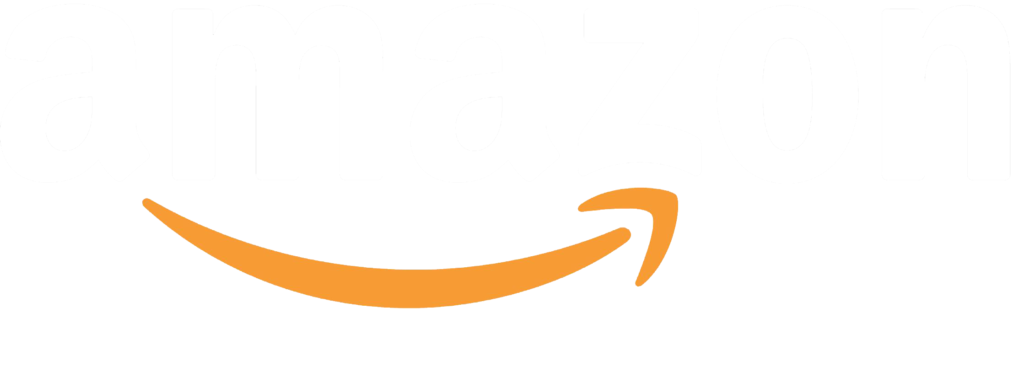
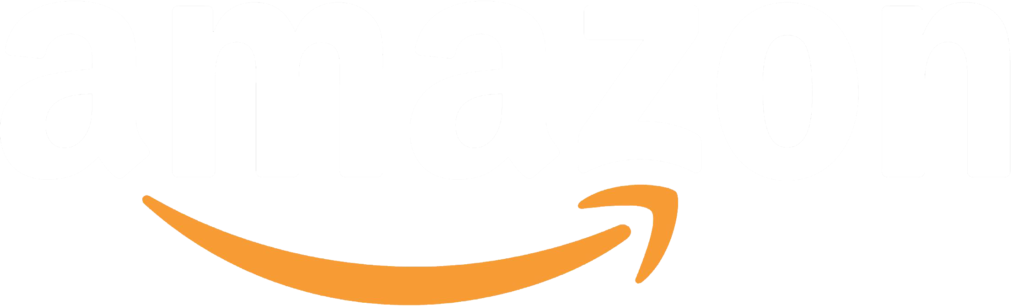
responsive header

Changed region(s): [[0.1227, 0.5, 0.6746, 1.0]]

diff --git a/src/Header.css b/src/Header.css
@@ -1,76 +1,120 @@
-.header {
-    height: 60px;
-    display: flex;
-    align-items: center;
-    background-color: #131921;
-    position: sticky;
-    top: 0;
-    z-index: 100;
-}
 
-.header__logo {
-    width: 100px;
-    object-fit: contain;
-    margin: 0 20px;
-    margin-top: 18px;
-}
 
-.header__search {
-    display: flex;
-    flex: 1;
-    align-items: center;
-    border-radius: 24px;
+@media (max-width:600px) {
+    body {
+        background: grey;
+    }
 
-}
+    .header {
+        display: grid;
+        justify-content:center;
+        
+        grid-template:
+            "logo nav basket" 40px
+            "search search search"40px/min-content 1fr min-content;
 
-.header__searchInput {
-    height: 12px;
-    padding: 10px;
-    border: none;
-    width: 100%;
-}
+        background-color: #131921;
+        position: fixed;
+        top: 0;
+        right: 0;
+        left: 0;
+        align-items: center;
+        padding: 3px 5px 5px 5px;
+        
+        
+    }
 
-.header__searchIcon {
-    padding: 5px;
-    height: 22px !important;
-    background-color: #cd9042;
-}
 
-.header__optionLineOne {
-    font-size: 10px;
-}
+    .header__nav {
+        
+        grid: nav;
+        display: flex;
+        justify-content: space-evenly;
+        
+        
+    }
 
-.header__optionLineTwo {
-    font-size: 13px;
-    font-weight: 800;
-}
+    .header__search {
+        grid-area: search;
+        display: flex;
+        flex: 1;
+        align-items: center;
+        border-radius: 24px;
+    }
 
-.header__optionBasket {
-    display: flex;
-    align-items: center;
-    color: white;
-}
+    .header__searchInput {
+        height: 12px;
+        padding: 10px;
+        border: none;
+        width: 100%;
+    }
 
-.header__basketCount {
-    margin-left: 10px;
-    margin-right: 10px;
-}
+    .header__searchIcon {
+        padding: 5px;
+        height: 22px !important;
+        background-color: #cd9042;
+    }
 
-.header__nav {
-    display: flex;
-    justify-content: space-evenly;
-}
+    .header__logo {
+        grid-area: logo;
 
-.header__option {
-    display: flex;
-    flex-direction: column;
-    margin-left: 10px;
-    margin-right: 10px;
-    color: white;
-}
+        width: 60px;
+        object-fit: contain;
+        margin-left:10px;
+        
+        
+        
+        display:flex;
+        align-items: center;
+    }
+    .header__logoImg {
+        
 
-.header__option:hover,
-.header__optionBasket:hover {
-    color: #cd9042;
-    cursor: pointer;
+        width:100%;
+        object-fit: contain;
+       
+        
+        
+       
+    }
+
+    .header__option {
+        display: flex;
+        flex-direction: column;
+        margin-left: 10px;
+        margin-right: 10px;
+        color: white;
+        
+        
+        
+    }
+
+    .header__optionBasket {
+       
+        grid-area: basket;
+        width:60px;
+        
+        
+        display: flex;
+        justify-content: flex-end;
+        align-items: center;
+        color: white;
+
+       
+    }
+
+    .header__basketCount {
+        margin-left: 10px;
+        margin-right: 10px;
+    }
+
+    .header__optionLineOne {
+        font-size: 10px;
+    }
+
+    .header__optionLineTwo {
+        font-size: 13px;
+        font-weight: 800;
+    }
+
 }

diff --git a/src/Header.js b/src/Header.js
@@ -21,12 +21,15 @@ function Header() {
   return (
     <div className="header">
       <Link to="/">
+        <div className='header__logo'>
         <img
-          className="header__logo"
+          className="header__logoImg"
           src={require("../src/assets/amazon_PNG11.png")}
           alt="amazon logo"
         />
+        </div>
       </Link>
+
       <div className="header__search">
         <input className="header__searchInput" type="text" />
         <SearchIcon className="header__searchIcon" />
@@ -43,15 +46,18 @@ function Header() {
             </span>
           </div>
         </Link>
+
         <div className="header__option">
           <span className="header__optionLineOne">Returns</span>
           <span className="header__optionLineTwo">& Orders</span>
         </div>
+
         <div className="header__option">
           <span className="header__optionLineOne">Your</span>
           <span className="header__optionLineTwo">Prime</span>
         </div>
       </div>
+
       <Link to="/checkout">
         <div className="header__optionBasket">
           <ShoppingBasketIcon />

diff --git a/src/Home.css b/src/Home.css
@@ -5,6 +5,7 @@
     margin-right: auto;
     max-width: 1500px;
     background-color: rgb(234,237,237);
+    overflow-x: hidden ;
 
 }
 
@@ -15,10 +16,20 @@
     margin-right: 5px;
 }
 
-.home__image {
+.home__banner {
     width: 100%;
     z-index: -1;
     margin-bottom: -150px;
     mask-image: linear-gradient(to bottom, rgba(0, 0, 0, 1),
             rgba(0, 0, 0, 0));
+}
+
+@media(max-width:500px){
+    .home{
+        max-width:90vw;
+        flex-direction: column;
+    }
+    .home__row{
+        flex-direction: column;
+    }
 }

diff --git a/src/Home.js b/src/Home.js
@@ -7,7 +7,7 @@ function Home() {
     <div className="home">
       <div className="home__container">
         <img
-          className="home__image"
+          className="home__banner"
           src="https://m.media-amazon.com/images/I/717OO5QwJnL._SX3000_.jpg"
           alt="amazon banner"
         />

diff --git a/src/App.js b/src/App.js
@@ -58,7 +58,7 @@ function App() {
             element={
               <>
                 <Header />
-                <Home />
+               {/*  <Home /> */}
               </>
             }
           />
